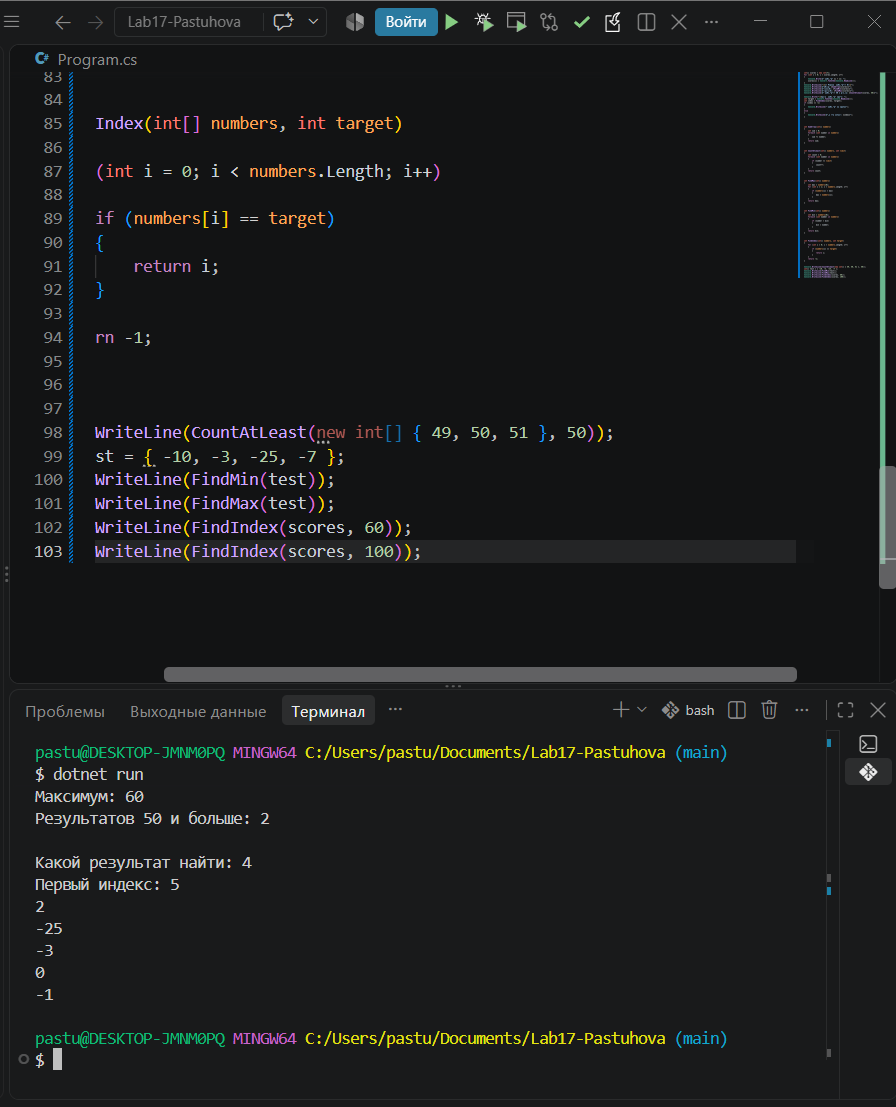
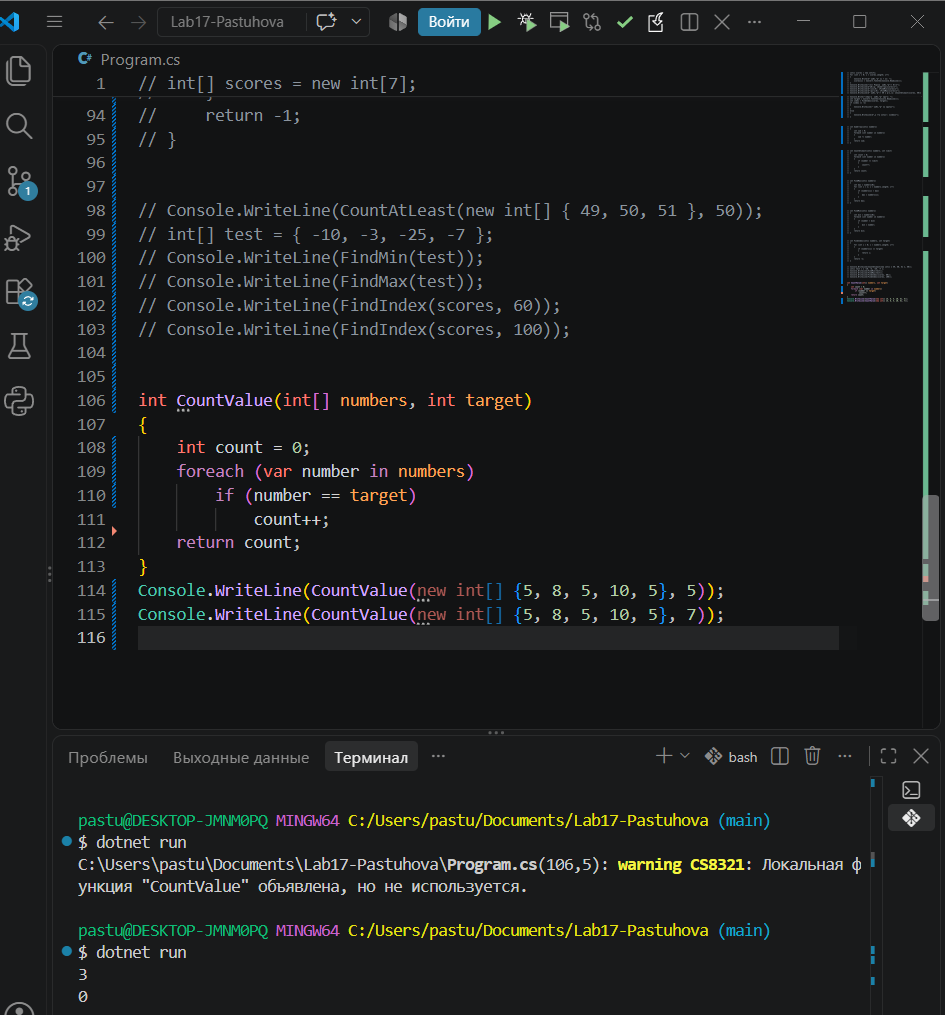
Add extra task:

diff --git a/Program.cs b/Program.cs
@@ -1,103 +1,115 @@
-int[] scores = new int[7];
-for (int i = 0; i < scores.Length; i++)
+// int[] scores = new int[7];
+// for (int i = 0; i < scores.Length; i++)
+// {
+//     Console.Write($"Результат {i + 1}: ");
+//     scores[i] = Convert.ToInt32(Console.ReadLine());
+// }
+// Console.WriteLine("\n»> Анализ результатов «<\n");
+// Console.WriteLine($"Сумма: {SumArray(scores)}");
+// Console.WriteLine($"Минимум: {FindMin(scores)}");
+// Console.WriteLine($"Максимум: {FindMax(scores)}");
+// Console.WriteLine($"Результатов 50 и больше: {CountAtLeast(scores, 50)}");
+
+// Console.Write("\nКакой результат найти: ");
+// int target = Convert.ToInt32(Console.ReadLine());
+// int index = FindIndex(scores, target);
+// if (index == -1)
+// {
+//     Console.WriteLine("Результат не найден");
+// }
+// else
+// {
+//     Console.WriteLine($"Первый индекс: {index}");
+// }
+
+
+
+
+// int SumArray(int[] numbers)
+// {
+//     int sum = 0;
+//     foreach (int number in numbers)
+//     {
+//         sum += number;
+//     }
+//     return sum;
+// }
+
+
+
+// int CountAtLeast(int[] numbers, int limit)
+// {
+//     int count = 0;
+//     foreach (int number in numbers)
+//     {
+//         if (number >= limit)
+//         {
+//             count++;
+//         }
+//     }
+//     return count;
+// }
+
+
+
+// int FindMax(int[] numbers)
+// {
+//     int max = numbers[0];
+//     for (int i = 1; i < numbers.Length; i++)
+//     {
+//         if (numbers[i] > max)
+//         {
+//             max = numbers[i];
+//         }
+//     }
+//     return max;
+// }
+
+
+
+// int FindMin(int[] numbers)
+// {
+//     int min = numbers[0];
+//     foreach (int number in numbers)
+//     {
+//         if (number < min)
+//         {
+//             min = number;
+//         }
+//     }
+//     return min;
+// }
+
+
+
+// int FindIndex(int[] numbers, int target)
+// {
+//     for (int i = 0; i < numbers.Length; i++)
+//     {
+//         if (numbers[i] == target)
+//         {
+//             return i;
+//         }
+//     }
+//     return -1;
+// }
+
+
+// Console.WriteLine(CountAtLeast(new int[] { 49, 50, 51 }, 50)); 
+// int[] test = { -10, -3, -25, -7 };
+// Console.WriteLine(FindMin(test)); 
+// Console.WriteLine(FindMax(test)); 
+// Console.WriteLine(FindIndex(scores, 60)); 
+// Console.WriteLine(FindIndex(scores, 100)); 
+
+
+int CountValue(int[] numbers, int target)
 {
-    Console.Write($"Результат {i + 1}: ");
-    scores[i] = Convert.ToInt32(Console.ReadLine());
-}
-Console.WriteLine("\n»> Анализ результатов «<\n");
-Console.WriteLine($"Сумма: {SumArray(scores)}");
-Console.WriteLine($"Минимум: {FindMin(scores)}");
-Console.WriteLine($"Максимум: {FindMax(scores)}");
-Console.WriteLine($"Результатов 50 и больше: {CountAtLeast(scores, 50)}");
-
-Console.Write("\nКакой результат найти: ");
-int target = Convert.ToInt32(Console.ReadLine());
-int index = FindIndex(scores, target);
-if (index == -1)
-{
-    Console.WriteLine("Результат не найден");
-}
-else
-{
-    Console.WriteLine($"Первый индекс: {index}");
-}
-
-
-
-
-int SumArray(int[] numbers)
-{
-    int sum = 0;
-    foreach (int number in numbers)
-    {
-        sum += number;
-    }
-    return sum;
-}
-
-
-
-int CountAtLeast(int[] numbers, int limit)
-{
-    int count = 0;
-    foreach (int number in numbers)
-    {
-        if (number >= limit)
-        {
+    int count = 0;   
+    foreach (var number in numbers)
+        if (number == target) 
             count++;
-        }
-    }
     return count;
 }
-
-
-
-int FindMax(int[] numbers)
-{
-    int max = numbers[0];
-    for (int i = 1; i < numbers.Length; i++)
-    {
-        if (numbers[i] > max)
-        {
-            max = numbers[i];
-        }
-    }
-    return max;
-}
-
-
-
-int FindMin(int[] numbers)
-{
-    int min = numbers[0];
-    foreach (int number in numbers)
-    {
-        if (number < min)
-        {
-            min = number;
-        }
-    }
-    return min;
-}
-
-
-
-int FindIndex(int[] numbers, int target)
-{
-    for (int i = 0; i < numbers.Length; i++)
-    {
-        if (numbers[i] == target)
-        {
-            return i;
-        }
-    }
-    return -1;
-}
-
-
-Console.WriteLine(CountAtLeast(new int[] { 49, 50, 51 }, 50)); 
-int[] test = { -10, -3, -25, -7 };
-Console.WriteLine(FindMin(test)); 
-Console.WriteLine(FindMax(test)); 
-Console.WriteLine(FindIndex(scores, 60)); 
-Console.WriteLine(FindIndex(scores, 100)); 
+Console.WriteLine(CountValue(new int[] {5, 8, 5, 10, 5}, 5)); 
+Console.WriteLine(CountValue(new int[] {5, 8, 5, 10, 5}, 7)); 
